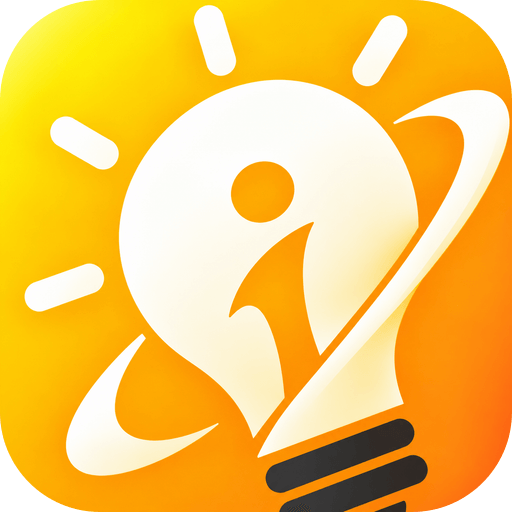
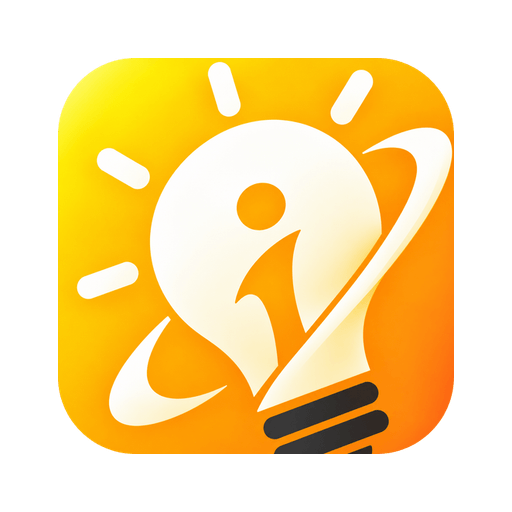
，

diff --git a/src/App.tsx b/src/App.tsx
@@ -718,38 +718,10 @@ function MainContent() {
     setActiveTab('create_question');
   };
 
-  // 手機版起始自動平滑滾動至「當前最高賞金」卡片（頂部完整貼齊導覽列下方，其餘數據在上方上滑可見）
-  const scrollToHighestBounty = (smooth = true) => {
-    if (typeof window === 'undefined') return;
-    const isMobile = window.innerWidth < 768 || /Android|iPhone|iPad|iPod/i.test(navigator.userAgent);
-    if (!isMobile) return;
-
-    const el = document.getElementById('highest-bounty-section');
-    if (el) {
-      const navEl = document.querySelector('header') || document.querySelector('nav');
-      const navHeight = navEl ? navEl.offsetHeight : 54;
-      const elementPosition = el.getBoundingClientRect().top + window.pageYOffset;
-      const offsetPosition = elementPosition - navHeight - 6;
-      window.scrollTo({
-        top: Math.max(0, offsetPosition),
-        behavior: smooth ? 'smooth' : 'auto',
-      });
-    }
-  };
-
-  useEffect(() => {
-    const timer1 = setTimeout(() => scrollToHighestBounty(true), 250);
-    const timer2 = setTimeout(() => scrollToHighestBounty(true), 600);
-    return () => {
-      clearTimeout(timer1);
-      clearTimeout(timer2);
-    };
-  }, []);
-
   return (
-    <div className="min-h-screen bg-stone-50/50 flex flex-col font-['Noto_Sans_TC',sans-serif] text-stone-900 selection:bg-amber-200">
+    <div className="min-h-screen w-full max-w-full overflow-x-hidden bg-stone-50/50 flex flex-col font-['Noto_Sans_TC',sans-serif] text-stone-900 selection:bg-amber-200">
       {/* App 開啟淡入淡出畫面 (Splash Screen) */}
-      <SplashScreen minDurationMs={1400} onDismiss={scrollToHighestBounty} />
+      <SplashScreen minDurationMs={1400} />
 
       {/* Navigation */}
       <Navbar
@@ -1537,6 +1509,18 @@ function MainContent() {
         </div>
       )}
 
+      {/* 網頁版左側羅盤浮動懸停導覽入口 */}
+      <FloatingOnboardingCompass
+        isVisible={!isOnboardingOpen}
+        onStartOnboarding={() => {
+          setIsOnboardingFromAbout(true);
+          setSelectedQuestion(null);
+          setSelectedSolver(null);
+          setActiveTab('explore');
+          setIsOnboardingOpen(true);
+        }}
+      />
+
       {/* Footer */}
       <Footer
         onNavClick={(tab, section) => {
@@ -1578,36 +1562,14 @@ function MainContent() {
             setActiveTab('my_projects');
             return;
           }
-          setActiveTab(tab);
-          if (tab === 'explore') {
-            setTimeout(() => {
-              const el = document.getElementById('market-grid');
-              if (el) {
-                el.scrollIntoView({ behavior: 'smooth' });
-              }
-            }, 60);
+          if (tab === 'explore' && activeTab === 'explore') {
+            window.scrollTo({ top: 0, behavior: 'smooth' });
+            return;
           }
+          setActiveTab(tab);
         }}
         onOpenCreateQuestion={() => handleOpenCreateWithType('seek_solution')}
       />
-
-      {/* 頁面右下角懸浮按鈕群 (圓形教學提示鍵移到下載鍵上方) */}
-      <div className="fixed right-3 bottom-20 sm:bottom-6 z-40 flex flex-col items-center gap-2.5 pointer-events-none select-none">
-        {/* 上方：圓形教學提示鍵 (羅盤導覽) */}
-        <FloatingOnboardingCompass
-          isVisible={!isOnboardingOpen}
-          onStartOnboarding={() => {
-            setIsOnboardingFromAbout(true);
-            setSelectedQuestion(null);
-            setSelectedSolver(null);
-            setActiveTab('explore');
-            setIsOnboardingOpen(true);
-          }}
-        />
-
-        {/* 下方：PWA 下載提示懸浮圓形按鈕 */}
-        <MobilePwaDownloadWidget />
-      </div>
 
       {/* PWA 安裝與下載指引彈窗 */}
       <PwaInstallModal

diff --git a/index.html b/index.html
@@ -2,7 +2,7 @@
 <html lang="zh-TW">
   <head>
     <meta charset="UTF-8" />
-    <meta name="viewport" content="width=device-width, initial-scale=1.0" />
+    <meta name="viewport" content="width=device-width, initial-scale=1.0, maximum-scale=1.0, user-scalable=no, viewport-fit=cover" />
     <meta name="google-site-verification" content="KdS9nGKik5dOk4_vUHxHo9mbvDEKONdbUtv1cmtX-dA" />
     <title>IdeaX 創點子 — 讓想法發光 • IDEAS CONNECT POSSIBILITIES</title>
     <meta name="description" content="IdeaX 創點子 — 讓想法發光！高價值問題與解決方案交易市場，提供懸賞、深度解鎖、AI 智能媒合與專家變現，Ideas Connect Possibilities。" />
@@ -23,7 +23,7 @@
     <meta name="twitter:description" content="IdeaX 創點子 — 讓想法發光！高價值問題與解決方案交易市場，提供懸賞、深度解鎖、AI 智能媒合與專家變現。" />
     <meta name="twitter:image" content="/logo-6-trans.png?v=logo-6-1" />
     <meta name="twitter:image:alt" content="IdeaX 創點子 — 讓想法發光" />
-    <link rel="manifest" href="/manifest.json?v=pwa-app-12" />
+    <link rel="manifest" href="/manifest.json?v=pwa-app-13" />
     <meta name="theme-color" content="#F59E0B" />
     <meta name="mobile-web-app-capable" content="yes" />
     <meta name="apple-mobile-web-app-capable" content="yes" />
@@ -39,7 +39,7 @@
     <link rel="shortcut icon" href="/favicon-48x48.png?v=web-bulb-10" />
 
     <!-- PWA APP 行動與桌面專屬應用程式圖標 (由 去背圓角縮圖 生成，橘黃色範圍飽滿清晰) -->
-    <link rel="apple-touch-icon" sizes="180x180" href="/apple-touch-icon.png?v=pwa-app-12" />
+    <link rel="apple-touch-icon" sizes="180x180" href="/apple-touch-icon.png?v=pwa-app-13" />
     <script type="application/ld+json">
     {
       "@context": "https://schema.org",

diff --git a/src/index.css b/src/index.css
@@ -1,7 +1,53 @@
 @import "tailwindcss";
 
-html {
-  scrollbar-gutter: stable;
+/* 僅在桌面大螢幕保持穩定滾動條，避免行動裝置產生多餘寬度與水平滑動 */
+@media (min-width: 1024px) {
+  html {
+    scrollbar-gutter: stable;
+  }
+}
+
+/* 全域防止水平溢出與左右晃動，鎖定手機版面穩定性 */
+html,
+body {
+  width: 100%;
+  max-width: 100vw;
+  overflow-x: hidden;
+  overscroll-behavior-x: none;
+  -webkit-overflow-scrolling: touch;
+  -webkit-text-size-adjust: 100%;
+  -webkit-tap-highlight-color: transparent;
+}
+
+#root {
+  width: 100%;
+  max-width: 100vw;
+  overflow-x: hidden;
+  min-height: 100vh;
+}
+
+/* 行動版與手機直式觸控防亂滑設定 */
+@media (max-width: 768px) {
+  html, body {
+    touch-action: pan-y;
+  }
+}
+
+/* PWA / 獨立 App 專屬沈浸式體驗優化：徹底固定外層視窗，杜絕空白彈跳與非預期拖曳 */
+@media (display-mode: standalone), (display-mode: fullscreen), (display-mode: minimal-ui) {
+  html, body {
+    overscroll-behavior-y: none;
+    user-select: none;
+    -webkit-user-select: none;
+    -webkit-touch-callout: none;
+  }
+  
+  /* 允許表單輸入框及文章內文正常進行文字選取與編輯 */
+  input, textarea, [contenteditable="true"], .selectable-text {
+    user-select: text;
+    -webkit-user-select: text;
+    -webkit-touch-callout: default;
+  }
 }
 
 @keyframes splash-progress {

diff --git a/public/sw.js b/public/sw.js
@@ -1,5 +1,5 @@
 // IdeaX 創點子 - Progressive Web App Service Worker
-const CACHE_NAME = 'ideax-pwa-v3';
+const CACHE_NAME = 'ideax-pwa-v4';
 const PRECACHE_ASSETS = [
   '/',
   '/index.html',
